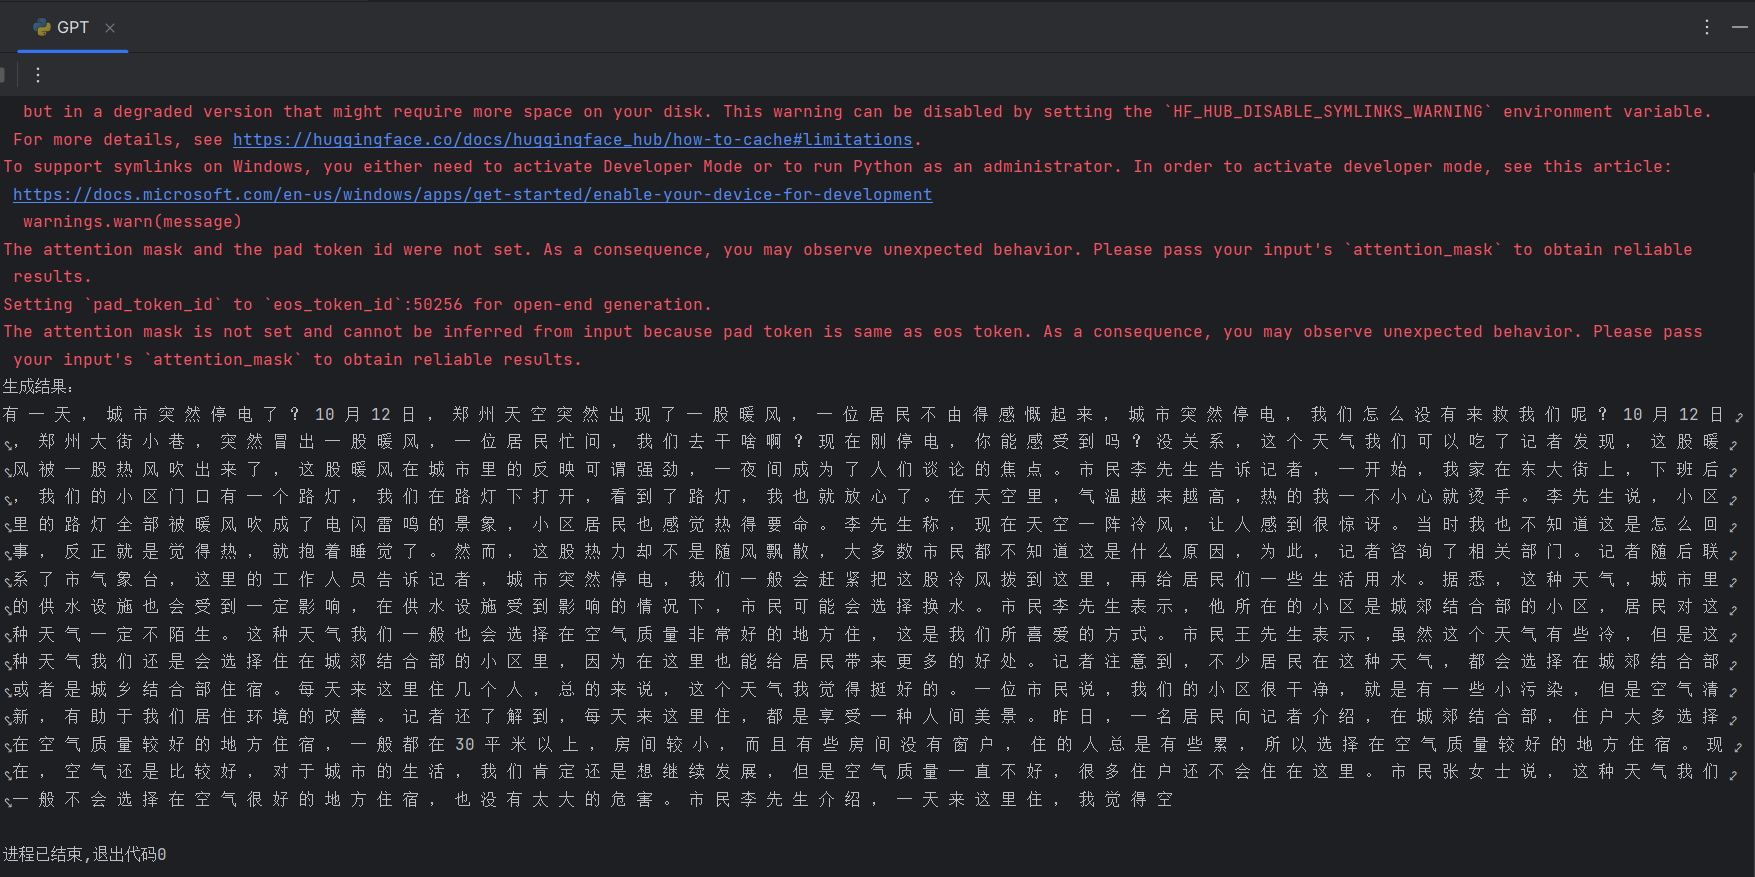
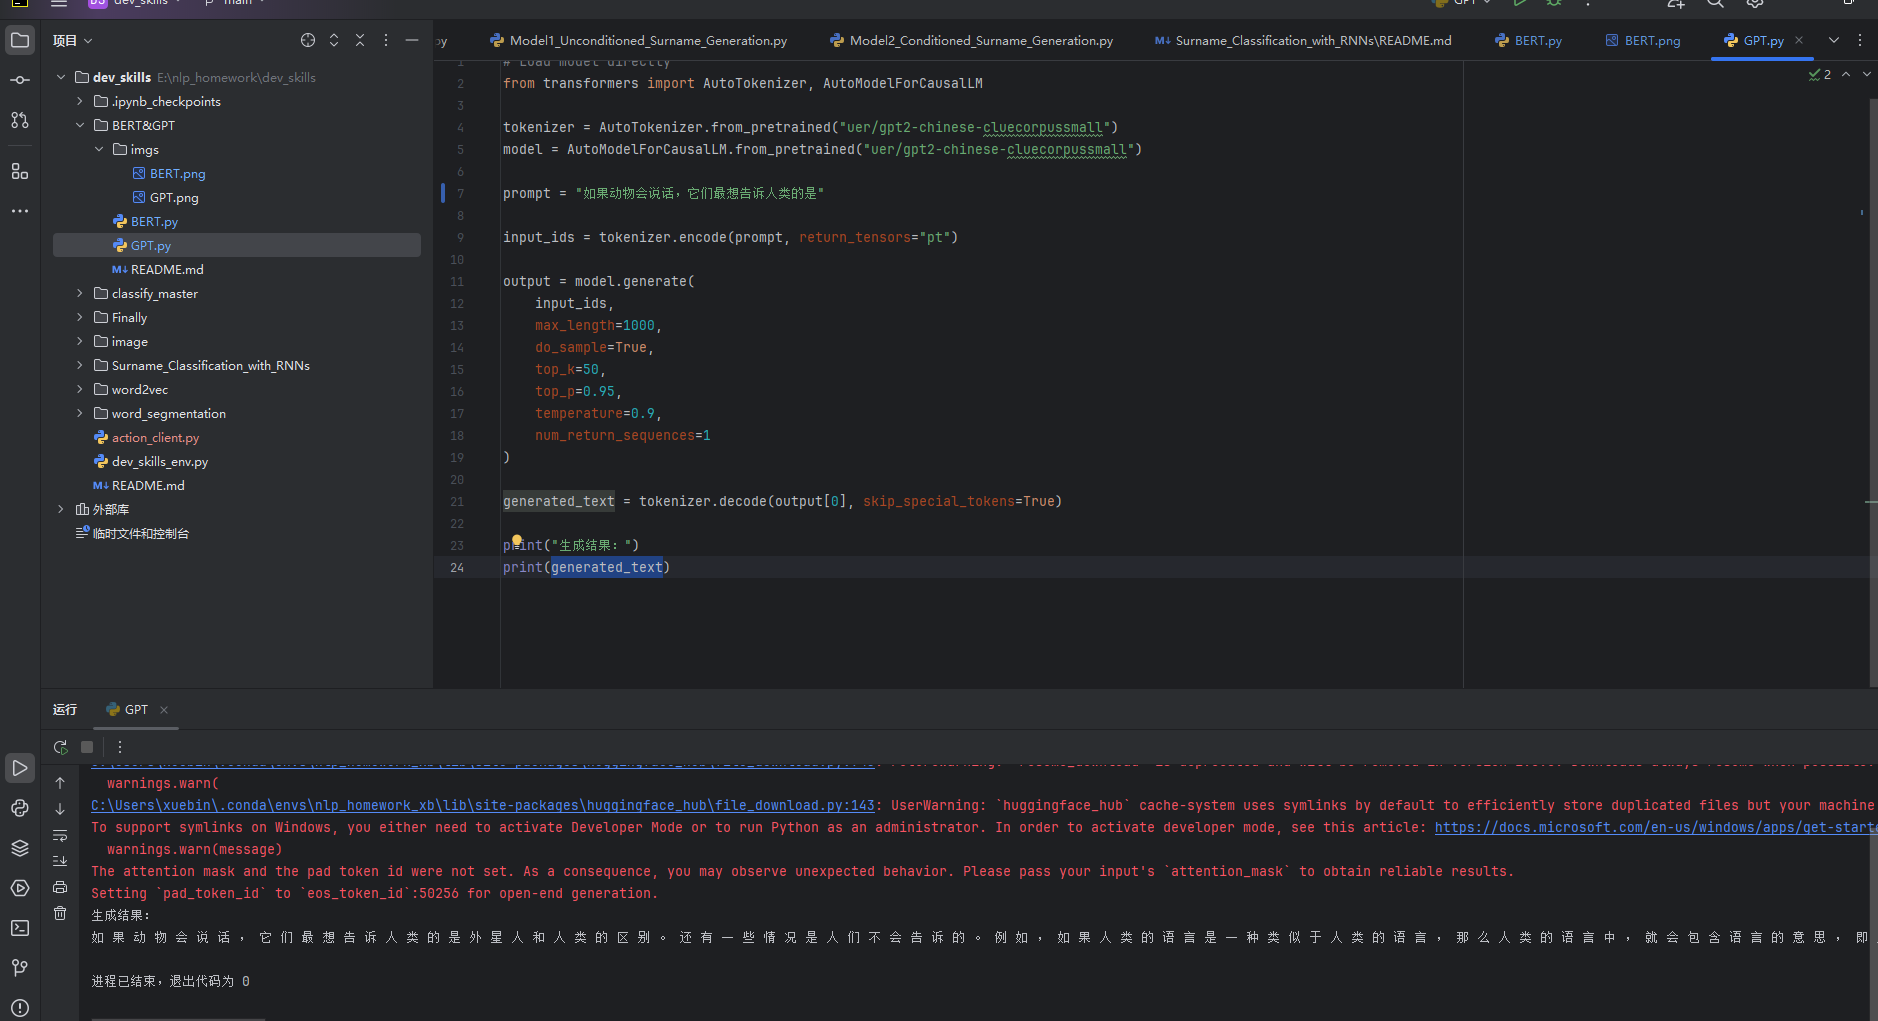
Initial commit

diff --git a/BERT&GPT/BERT.py b/BERT&GPT/BERT.py
@@ -16,8 +16,8 @@ def predict_sentiment(text):
 
 
 # 选择对应句子
-movie = "美术、服装、布景细节丰富，完全是视觉盛宴！"
-food = "食物完全凉了，吃起来像隔夜饭，体验极差。"
+movie = "导演功力深厚，镜头语言非常有张力，每一帧都值得回味。"
+food = "食物分量十足，性价比超高，吃得很满足。"
 
 # 执行预测
 movie_sentiment = predict_sentiment(movie)

diff --git a/BERT&GPT/GPT.py b/BERT&GPT/GPT.py
@@ -4,7 +4,7 @@ from transformers import AutoTokenizer, AutoModelForCausalLM
 tokenizer = AutoTokenizer.from_pretrained("uer/gpt2-chinese-cluecorpussmall")
 model = AutoModelForCausalLM.from_pretrained("uer/gpt2-chinese-cluecorpussmall")
 
-prompt = "有一天，城市突然停电了"
+prompt = "如果动物会说话，它们最想告诉人类的是"
 
 input_ids = tokenizer.encode(prompt, return_tensors="pt")
 
